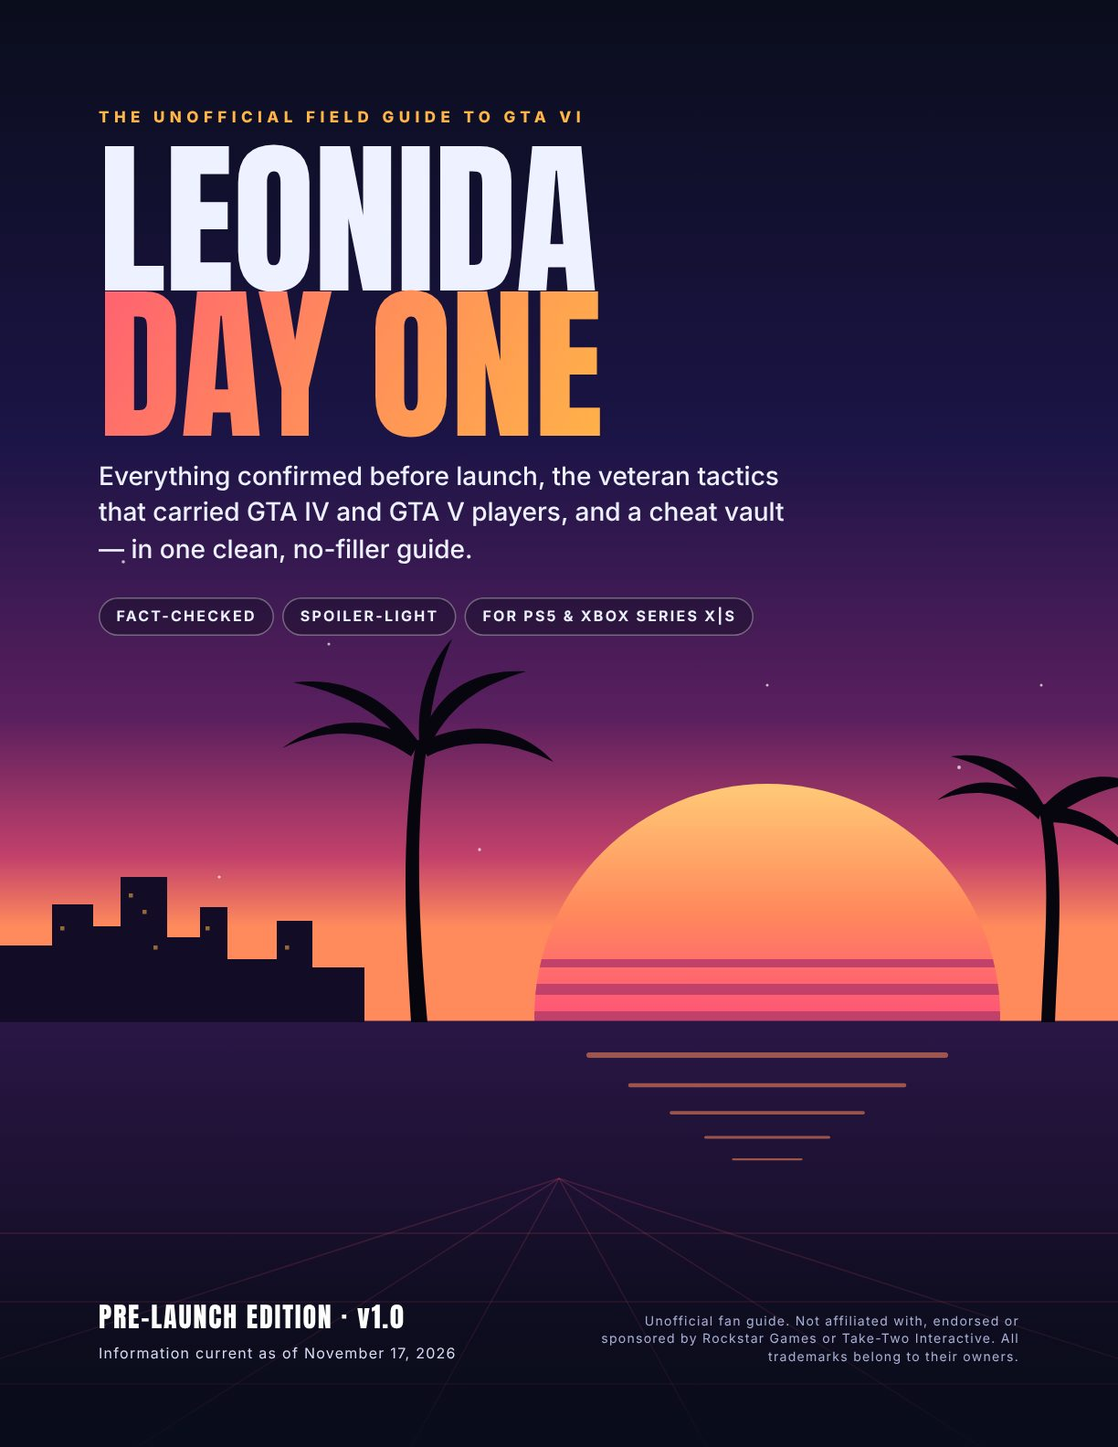
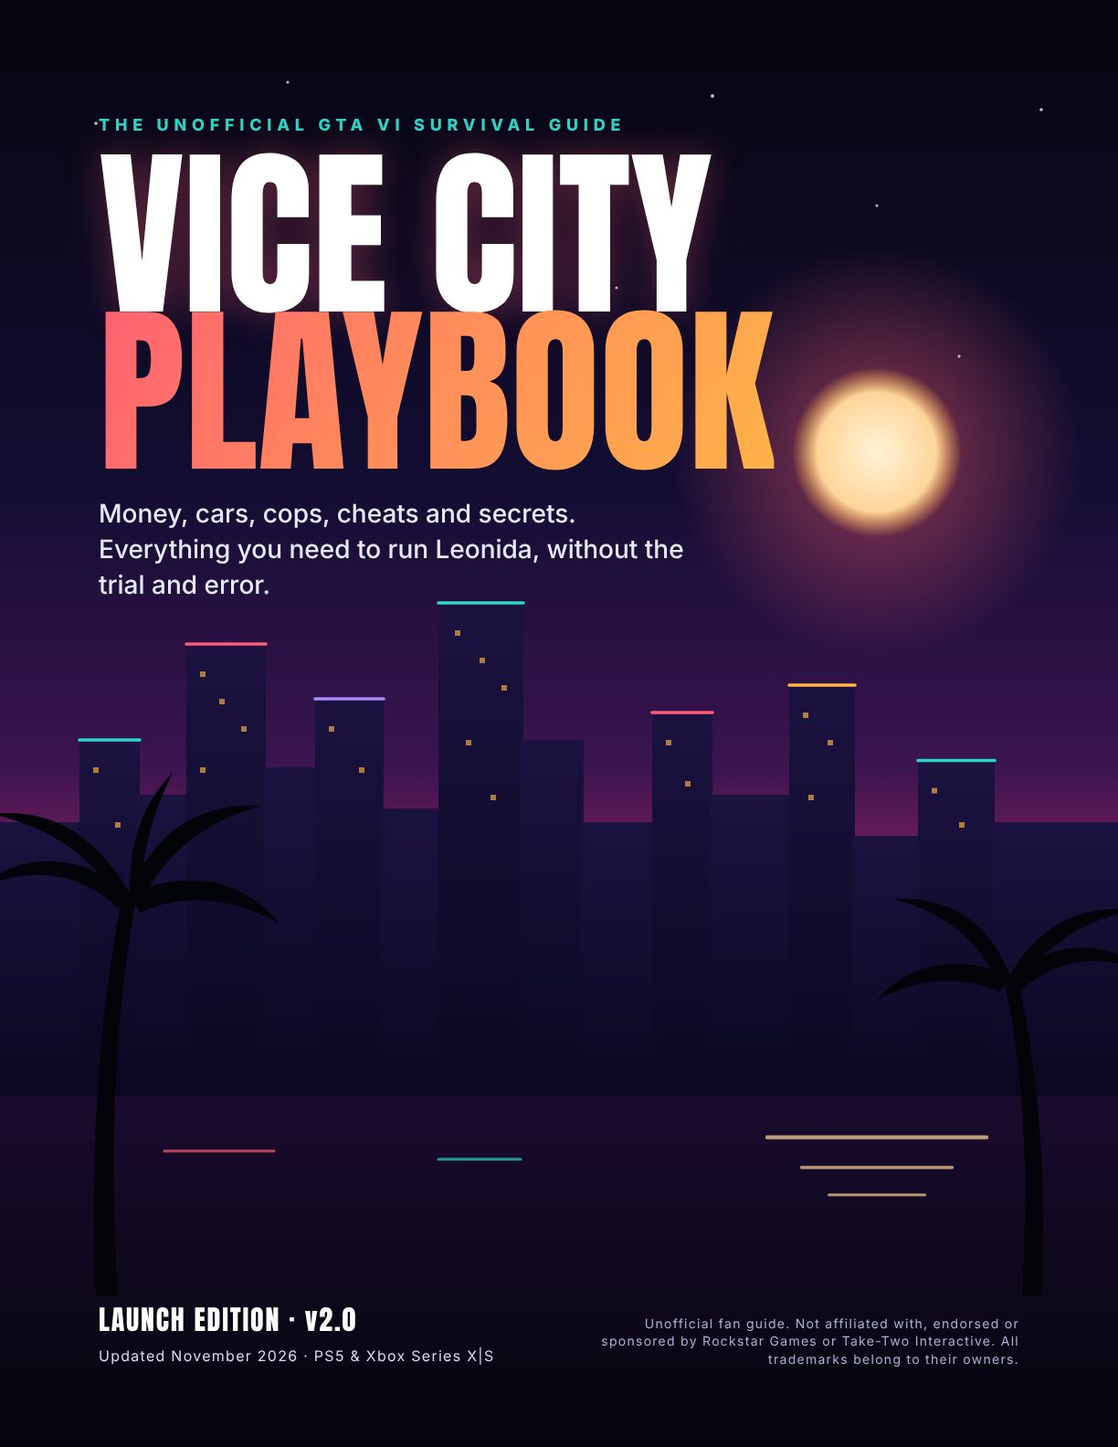
Wersja 2: Vice City Playbook (po premierze), nowa okładka i strona
PDF i źródło poradnika nadal poza repo (repo publiczne).

Claude-Session: https://claude.ai/code/session_01N4FyqEDLHZdtmckfSThfyW

diff --git a/gta6-guide/site/index.html b/gta6-guide/site/index.html
@@ -3,10 +3,10 @@
 <head>
 <meta charset="utf-8">
 <meta name="viewport" content="width=device-width, initial-scale=1">
-<title>Leonida: Day One — The Unofficial GTA VI Field Guide</title>
-<meta name="description" content="A fact-checked, no-filler PDF guide for GTA VI launch day: confirmed features, veteran tactics from GTA IV & V, and a cheat vault. Instant email delivery.">
-<meta property="og:title" content="Leonida: Day One — The Unofficial GTA VI Field Guide">
-<meta property="og:description" content="Walk into Leonida knowing everything. Fact-checked PDF guide, delivered instantly.">
+<title>Vice City Playbook — The Unofficial GTA VI Survival Guide</title>
+<meta name="description" content="The unofficial GTA VI survival guide: money methods, car tricks, how to lose the cops, cheats and secrets. Fact-checked PDF, instant email delivery.">
+<meta property="og:title" content="Vice City Playbook — The Unofficial GTA VI Survival Guide">
+<meta property="og:description" content="Money, cars, cops, cheats and secrets. The GTA VI shortcuts, delivered instantly.">
 <meta property="og:image" content="img/cover.jpg">
 <link rel="preconnect" href="https://fonts.googleapis.com">
 <link rel="preconnect" href="https://fonts.gstatic.com" crossorigin>
@@ -50,6 +50,7 @@ nav .wrap{display:flex;align-items:center;justify-content:space-between;height:6
 .cover-wrap .sticker{position:absolute;top:-14px;left:-14px;background:var(--teal);color:#05211f;font-weight:800;font-size:13px;letter-spacing:.1em;text-transform:uppercase;padding:9px 14px;border-radius:999px;transform:rotate(-6deg)}
 
 /* countdown */
+.facts{display:flex;flex-wrap:wrap;gap:10px;margin-bottom:26px}.facts span{background:var(--night2);border:1px solid var(--line);border-radius:12px;padding:10px 14px;color:var(--soft);font-size:14px}.facts b{font-family:Anton;font-weight:400;font-size:22px;color:var(--ink);margin-right:6px}
 .count{display:flex;gap:10px;margin-bottom:26px}
 .count div{background:var(--night2);border:1px solid var(--line);border-radius:12px;padding:10px 14px;min-width:72px;text-align:center}
 .count b{display:block;font-family:Anton;font-size:30px;line-height:1}
@@ -129,42 +130,37 @@ footer .wrap{display:flex;flex-direction:column;gap:10px}
 <body>
 
 <nav><div class="wrap">
-  <a class="logo" href="#">Leonida<span class="g"> Day One</span></a>
+  <a class="logo" href="#">Vice City<span class="g"> Playbook</span></a>
   <a class="btn sm buy-link" href="#">Get the guide</a>
 </div></nav>
 
 <header class="hero"><div class="wrap">
   <div>
-    <div class="kicker">The unofficial GTA VI field guide</div>
-    <h1 class="display">Walk into Leonida <span class="g">knowing everything.</span></h1>
-    <p class="sub">GTA VI launches November 19. This fact-checked PDF gives you every confirmed feature, the veteran tactics that carried GTA IV &amp; V players, and a verified cheat vault, with zero filler and zero fake leaks.</p>
-    <div class="count" id="count" aria-label="Countdown to GTA VI launch">
-      <div><b id="cd-d">--</b><small>Days</small></div>
-      <div><b id="cd-h">--</b><small>Hours</small></div>
-      <div><b id="cd-m">--</b><small>Min</small></div>
-      <div><b id="cd-s">--</b><small>Sec</small></div>
-    </div>
+    <div class="kicker">The unofficial GTA VI survival guide</div>
+    <h1 class="display">Run Leonida <span class="g">like a pro.</span></h1>
+    <p class="sub">GTA VI is huge and doesn't explain much. This fact-checked playbook gives you the shortcuts: the best ways to make money, keep your cars, lose the cops, unlock cheats and find secrets.</p>
+    <div class="facts"><span><b>11</b> chapters</span><span><b>6</b> ways to lose the cops</span><span><b>6</b> money methods</span></div>
     <a class="btn buy-link" href="#">Get instant access <span class="price">· <span class="price-val">$14.99</span></span></a>
-    <div class="trust"><span>Instant PDF to your email</span><span>19 pages</span><span>Every claim sourced</span></div>
+    <div class="trust"><span>Instant PDF to your email</span><span>14 pages</span><span>Every claim sourced</span></div>
   </div>
   <div class="cover-wrap">
-    <img src="img/cover.jpg" alt="Cover of Leonida: Day One, the unofficial GTA VI field guide" width="1224" height="1584">
+    <img src="img/cover.jpg" alt="Cover of Vice City Playbook, the unofficial GTA VI survival guide" width="1224" height="1584">
   </div>
 </div></header>
 
 <section class="alt"><div class="wrap">
   <div class="kicker">What's inside</div>
-  <h2 class="display">13 chapters. <span class="g">No fluff.</span></h2>
-  <p class="lead">Everything a new player needs on launch night, in a format you can read in one sitting and keep open on your phone while you play.</p>
+  <h2 class="display">11 chapters. <span class="g">No fluff.</span></h2>
+  <p class="lead">Everything you need in your first days in Leonida, in a format you can read in one sitting and keep open on your phone while you play.</p>
   <div class="grid">
-    <div class="card"><div class="n g">01</div><h3>Launch briefing</h3><p>Dates, platforms and what's actually confirmed, on one page.</p></div>
-    <div class="card"><div class="n g">02</div><h3>Map &amp; crew</h3><p>Leonida's six regions and the cast you need to know, without spoilers.</p></div>
-    <div class="card"><div class="n g">03</div><h3>Lose the heat</h3><p>How GTA VI's police see you, and the outfit trick that helps you slip away.</p></div>
-    <div class="card"><div class="n g">04</div><h3>Phone as a weapon</h3><p>The car scanner and every app shown so far. Scan before you steal.</p></div>
-    <div class="card"><div class="n g">05</div><h3>Body &amp; style</h3><p>Gym 2-for-1, the food health buff and grooming at safehouses.</p></div>
-    <div class="card"><div class="n g">06</div><h3>First 10 hours</h3><p>A tick-box launch plan so you don't waste your first night.</p></div>
-    <div class="card"><div class="n g">07</div><h3>Veteran playbook</h3><p>Money, heists, chases and stealth: tactics refined over 15+ years of GTA.</p></div>
-    <div class="card"><div class="n g">08</div><h3>Cheat vault</h3><p>Every verified GTA V &amp; IV cheat, plus the truth about GTA VI cheats.</p></div>
+    <div class="card"><div class="n g">01</div><h3>First hours</h3><p>A tick-box plan that skips the mistakes new players make.</p></div>
+    <div class="card"><div class="n g">02</div><h3>Money</h3><p>Six ways to get rich, from untracked cars to bank vaults.</p></div>
+    <div class="card"><div class="n g">03</div><h3>Cars</h3><p>Scan, steal, store, repair cheap. Never lose a ride to a tracker.</p></div>
+    <div class="card"><div class="n g">04</div><h3>The heat</h3><p>How the six-star police system finds you, icon by icon.</p></div>
+    <div class="card"><div class="n g">05</div><h3>Losing the cops</h3><p>Six escapes that work, plus the perfect getaway routine.</p></div>
+    <div class="card"><div class="n g">06</div><h3>Teamwork</h3><p>Focus Mode and two-character robberies that make jobs easy.</p></div>
+    <div class="card"><div class="n g">07</div><h3>Secrets</h3><p>The first big finds, from the tower egg to the swamp effigies.</p></div>
+    <div class="card"><div class="n g">08</div><h3>Cheats</h3><p>How GTA VI cheats unlock, how to enter them, and the catch.</p></div>
   </div>
 </div></section>
 
@@ -172,20 +168,20 @@ footer .wrap{display:flex;flex-direction:column;gap:10px}
   <div class="kicker">Look inside</div>
   <h2 class="display">Designed to be <span class="g">read, not skimmed.</span></h2>
   <div class="previews">
-    <figure><img src="img/map.jpg" alt="Map of Leonida page preview" loading="lazy" width="1224" height="1584"><figcaption>Welcome to Leonida</figcaption></figure>
-    <figure><img src="img/heat.jpg" alt="Focus mode and police page preview" loading="lazy" width="1224" height="1584"><figcaption>Focus mode &amp; the heat</figcaption></figure>
+    <figure><img src="img/money.jpg" alt="Money methods page preview" loading="lazy" width="1224" height="1584"><figcaption>Make money</figcaption></figure>
+    <figure><img src="img/heat.jpg" alt="Focus mode and police page preview" loading="lazy" width="1224" height="1584"><figcaption>Losing the cops</figcaption></figure>
   </div>
 </div></section>
 
 <section class="alt"><div class="wrap">
   <div class="kicker">Why players grab it</div>
   <h2 class="display">Skip the hype. <span class="g">Play smarter.</span></h2>
-  <p class="lead">The internet is full of fake GTA VI "leaks." This guide keeps only what's real and turns it into a plan you can use on launch night.</p>
+  <p class="lead">The internet is full of fake GTA VI "leaks." This playbook keeps only what's been checked and turns it into a plan you can use tonight.</p>
   <div class="badges">
     <div class="card"><h3>Saves you hours</h3><p>Everything from trailers, previews and interviews, in one place.</p></div>
     <div class="card"><h3>No fake leaks</h3><p>Every GTA VI detail is checked against real sources.</p></div>
-    <div class="card"><h3>Built for day one</h3><p>A step-by-step plan for your first 10 hours in Leonida.</p></div>
-    <div class="card"><h3>Proven tricks</h3><p>Tactics and cheats that worked across GTA IV and GTA V.</p></div>
+    <div class="card"><h3>Built for new players</h3><p>A step-by-step plan for your first hours in Leonida.</p></div>
+    <div class="card"><h3>Real tricks</h3><p>Money methods, escapes and cheats that work in GTA VI.</p></div>
   </div>
 </div></section>
 
@@ -201,16 +197,16 @@ footer .wrap{display:flex;flex-direction:column;gap:10px}
 
 <section class="buy" id="buy"><div class="wrap">
   <div class="box">
-    <div class="kicker">Launch-week price</div>
+    <div class="kicker">Launch price</div>
     <div class="big g price-val">$14.99</div>
     <p style="color:var(--muted)">One-time payment · Instant PDF download</p>
     <ul>
-      <li>19-page fact-checked PDF guide</li>
-      <li>13 chapters + printable quick-reference card</li>
-      <li>Verified GTA V &amp; GTA IV cheat vault</li>
+      <li>14-page fact-checked PDF playbook</li>
+      <li>11 chapters + quick-reference page</li>
+      <li>Money, cars, cops, secrets &amp; cheats</li>
       <li>Full source list for every claim</li>
     </ul>
-    <a class="btn buy-link" href="#">Get Leonida: Day One</a>
+    <a class="btn buy-link" href="#">Get Vice City Playbook</a>
   </div>
 </div></section>
 
@@ -218,19 +214,19 @@ footer .wrap{display:flex;flex-direction:column;gap:10px}
   <div class="kicker">FAQ</div>
   <h2 class="display">Questions</h2>
   <div class="faq">
-    <details><summary>Is this an official Rockstar guide?</summary><p>No. Leonida: Day One is an independent, unofficial fan guide. It isn't affiliated with or endorsed by Rockstar Games or Take-Two Interactive.</p></details>
+    <details><summary>Is this an official Rockstar guide?</summary><p>No. Vice City Playbook is an independent, unofficial fan guide. It isn't affiliated with or endorsed by Rockstar Games or Take-Two Interactive.</p></details>
     <details><summary>Does it contain leaks or spoilers?</summary><p>No leaks, ever. Everything comes from official Rockstar material, press previews with Rockstar developers, or proven series experience. Story spoilers are kept to a minimum.</p></details>
-    <details><summary>The game isn't out yet. What's actually in it?</summary><p>This is the pre-launch edition: everything confirmed about GTA VI so far, a step-by-step plan for your first 10 hours, veteran tactics from GTA IV &amp; V, and a verified cheat vault.</p></details>
+    <details><summary>What's actually in it?</summary><p>A first-hours checklist, six money methods, car and police tricks, Focus Mode and teamwork tips, the first big secrets, and how GTA VI cheats work. Every fact is checked against major gaming outlets.</p></details>
     <details><summary>How do I get the guide after I pay?</summary><p>It's delivered automatically. After checkout you'll get an email with your download link within a minute or so. Check your spam folder if you don't see it.</p></details>
     <details><summary>What format is it?</summary><p>A high-quality PDF that works on any phone, tablet or computer, and prints on standard US Letter paper.</p></details>
-    <details><summary>Which platforms does it cover?</summary><p>GTA VI launches on PlayStation 5 and Xbox Series X|S. The GTA V cheat phone numbers in the vault work on every platform.</p></details>
+    <details><summary>Which platforms does it cover?</summary><p>GTA VI is on PlayStation 5 and Xbox Series X|S. The playbook covers both, including the controls for cheats on each console.</p></details>
   </div>
 </div></section>
 
 <footer><div class="wrap">
-  <div><strong style="color:var(--ink)">Leonida: Day One</strong> · Questions? <a href="mailto:support@example.com" id="support-mail">support@example.com</a></div>
-  <div>Leonida: Day One is an unofficial fan-made guide and is not affiliated with, endorsed, sponsored or approved by Rockstar Games, Inc. or Take-Two Interactive Software, Inc. Grand Theft Auto, GTA and related names are trademarks of their respective owners and are used only to identify the game this guide covers. All artwork is original.</div>
-  <div>© 2026 Leonida: Day One</div>
+  <div><strong style="color:var(--ink)">Vice City Playbook</strong> · Questions? <a href="mailto:support@example.com" id="support-mail">support@example.com</a></div>
+  <div>Vice City Playbook is an unofficial fan-made guide and is not affiliated with, endorsed, sponsored or approved by Rockstar Games, Inc. or Take-Two Interactive Software, Inc. Grand Theft Auto, GTA and related names are trademarks of their respective owners and are used only to identify the game this guide covers. All artwork is original.</div>
+  <div>© 2026 Vice City Playbook</div>
 </div></footer>
 
 <div class="mobile-buy"><a class="btn buy-link" href="#">Get the guide · <span class="price-val">$14.99</span></a></div>
@@ -247,20 +243,6 @@ document.querySelectorAll('.buy-link').forEach(a => a.href = CONFIG.checkoutUrl)
 document.querySelectorAll('.price-val').forEach(e => e.textContent = CONFIG.price);
 const m = document.getElementById('support-mail'); m.href = 'mailto:' + CONFIG.supportEmail; m.textContent = CONFIG.supportEmail;
 
-// Countdown to launch: Nov 19, 2026, midnight US Eastern (05:00 UTC)
-const launch = Date.UTC(2026, 10, 19, 5, 0, 0);
-const box = document.getElementById('count');
-function tick(){
-  const d = launch - Date.now();
-  if (d <= 0){ box.innerHTML = '<div style="flex:1"><b class="g">OUT NOW</b><small>GTA VI is here</small></div>'; return; }
-  const pad = n => String(n).padStart(2,'0');
-  document.getElementById('cd-d').textContent = Math.floor(d/864e5);
-  document.getElementById('cd-h').textContent = pad(Math.floor(d/36e5)%24);
-  document.getElementById('cd-m').textContent = pad(Math.floor(d/6e4)%60);
-  document.getElementById('cd-s').textContent = pad(Math.floor(d/1e3)%60);
-  setTimeout(tick, 1000);
-}
-tick();
 
 // Show the sticky mobile buy bar only once the hero button has scrolled away
 const heroBtn = document.querySelector('.hero .btn'), bar = document.querySelector('.mobile-buy'), buyBox = document.getElementById('buy');

diff --git a/gta6-guide/tools/build.js b/gta6-guide/tools/build.js
@@ -6,7 +6,7 @@ const fs = require('fs');
 
 const root = path.resolve(__dirname, '..');
 const src = 'file://' + path.join(root, 'guide', 'guide.html');
-const pdfOut = path.join(root, 'dist', 'Leonida-Day-One-GTA-VI-Guide.pdf');
+const pdfOut = path.join(root, 'dist', 'Vice-City-Playbook-GTA-VI-Guide.pdf');
 const prevDir = path.join(root, 'site', 'img');
 
 (async () => {
@@ -36,7 +36,7 @@ const prevDir = path.join(root, 'site', 'img');
   console.log('PDF ->', pdfOut);
 
   // Preview images of selected pages for the landing page.
-  const pick = { cover: 1, map: 4, heat: 8 };
+  const pick = { cover: 1, money: 5, heat: 8 };
   const scale = process.argv.includes('--all') ? null : pick;
   const hi = await browser.newPage({ viewport: { width: 816, height: 1056 }, deviceScaleFactor: 1.5 });
   await hi.goto(src, { waitUntil: 'networkidle' });

diff --git a/gta6-guide/INSTRUKCJA.md b/gta6-guide/INSTRUKCJA.md
@@ -1,7 +1,7 @@
-# Leonida: Day One — instrukcja uruchomienia sprzedaży
+# Vice City Playbook — instrukcja uruchomienia sprzedaży
 
 Produkt: PDF-poradnik do GTA VI (po angielsku, rynek USA) + strona sprzedażowa.
-Klient płaci → **automatycznie dostaje maila z linkiem do PDF**. Nie musisz nic robić ręcznie.
+Klient płaci → **automatycznie dostaje maila z PDF-em**. Nic nie wysyłasz ręcznie.
 
 ---
 
@@ -9,80 +9,76 @@ Klient płaci → **automatycznie dostaje maila z linkiem do PDF**. Nie musisz n
 
 | Plik | Co to jest |
 |---|---|
-| `Leonida-Day-One-GTA-VI-Guide.pdf` | Gotowy poradnik, 19 stron (wysłany Ci jako plik, **NIE ma go w repo**) |
-| `site/index.html` + `site/img/` | Strona sprzedażowa (landing page) |
-| `guide/guide.html` | Źródło PDF (też wysłane jako plik, **nie w repo**) |
+| `Vice-City-Playbook-GTA-VI-Guide.pdf` | Gotowy poradnik, 14 stron (wysłany Ci jako plik, **NIE ma go w repo**) |
+| `site/index.html` + `site/img/` | Strona sprzedażowa |
+| `guide/guide.html` | Źródło PDF (nie w repo) |
 | `tools/build.js` | Skrypt, który robi PDF ze źródła |
 
-> ⚠ Repo `Petenzo/Petenzo` jest **publiczne**. Nigdy nie wrzucaj tam PDF-a ani `guide.html`, bo każdy pobierze go za darmo.
-> PDF **nie może** też leżeć w folderze `site/` (strona jest publiczna).
+> ⚠ Repo `Petenzo/Petenzo` jest **publiczne**. Nigdy nie wrzucaj tam PDF-a ani `guide.html`.
+> PDF **nie może** też leżeć w folderze `site/`, bo strona jest publiczna.
 
 ---
 
-## Krok 1: Gumroad (płatności i automatyczna wysyłka PDF), ok. 10 minut
+## Krok 1: Shopify (płatności i automatyczna wysyłka PDF)
 
-1. Załóż konto na **gumroad.com**.
-2. **Settings → Payments**: podepnij wypłaty (PayPal albo konto bankowe).
-3. **Products → New product → Digital product**
-   - Name: `Leonida: Day One — The Unofficial GTA VI Field Guide`
-   - Price: **$14.99** (ok. 55 zł)
-   - Upload: wgraj `Leonida-Day-One-GTA-VI-Guide.pdf`
-   - Cover: wgraj `site/img/cover.jpg`
-   - Description: wklej tekst z sekcji „Opis produktu” poniżej
-4. **Publish**, potem skopiuj link do produktu (np. `https://twojanazwa.gumroad.com/l/leonida`).
+1. Na swoim koncie Shopify załóż **nowy sklep** tylko pod poradnik (nie w Petenzo). Plan **Basic**.
+2. **Apps** → wyszukaj **Digital Downloads** → wybierz tę od **Shopify**, cena **Free** → Install.
+3. **Products → Add product**
+   - Title: `Vice City Playbook — The Unofficial GTA VI Survival Guide`
+   - Price: **$14.99**
+   - Odznacz „This is a physical product” (bez wysyłki)
+   - Zdjęcie: `site/img/cover.jpg`
+   - Opis: wklej tekst z sekcji „Opis produktu” poniżej
+4. W aplikacji Digital Downloads przypisz plik `Vice-City-Playbook-GTA-VI-Guide.pdf` do produktu.
+5. **Settings → Store details**: wpisz osobnego Gmaila do kontaktu z klientami.
+6. Zrób **testowy zakup** z kodem rabatowym 100% i sprawdź, czy PDF przychodzi na maila.
 
-Gumroad sam wysyła klientowi maila z PDF-em zaraz po zapłacie.
-Prowizja Gumroada to ok. 10% + 0,50 $ od sprzedaży (sprawdź aktualny cennik na ich stronie).
-Alternatywa: **Lemon Squeezy** działa tak samo.
+Możesz też podłączyć nowy sklep do mnie, a dodam produkt i wysyłkę za Ciebie.
 
-## Krok 2: Podepnij link na stronie, 1 minuta
+## Krok 2: Podepnij link na stronie
 
-Otwórz `site/index.html`, na samym dole znajdź:
+W `site/index.html`, na samym dole:
 
 ```js
 const CONFIG = {
-  checkoutUrl: "#buy",               // ← TU wklej link z Gumroada
-  price: "$14.99",                   // ← cena (zmienia się wszędzie na stronie)
-  supportEmail: "support@example.com" // ← Twój mail do kontaktu
+  checkoutUrl: "#buy",               // ← link do produktu albo koszyka w Shopify
+  price: "$14.99",
+  supportEmail: "support@example.com" // ← Twój Gmail do kontaktu
 };
 ```
 
-## Krok 3: Wrzuć stronę do internetu, 2 minuty, za darmo
+## Krok 3: Wrzuć stronę do internetu (za darmo)
 
-- Wejdź na **app.netlify.com/drop** i przeciągnij folder `site`. Dostajesz link od razu.
-- Możesz też poprosić mnie, a zrobię to przez Netlify.
-- Własna domena (np. `leonidadayone.com`) kosztuje ok. 10–15 $ rocznie i podpinasz ją w Netlify.
-
----
-
-## Ważne: przeczytaj
-
-1. **Premiera GTA VI to 19 listopada 2026, czyli za 2 dni.** Najwięcej sprzedasz w tym tygodniu, więc odpal to dziś.
-2. **Prawo/marki:** poradnik i strona mają dopisek „unofficial, not affiliated with Rockstar”. W reklamach **nie używaj** logo GTA VI, screenów z gry ani grafik Rockstara. Używaj tylko naszych grafik (okładka i podglądy stron).
-3. **Fakty:** wszystko w poradniku jest sprawdzone i oznaczone (CONFIRMED / PREVIEW / VETERAN / UNCONFIRMED). Gra jeszcze nie wyszła, więc to **wydanie przedpremierowe**. Po premierze warto zrobić v2 z prawdziwymi trikami z gry. Gumroad pozwala podmienić plik i kupujący dostaną nową wersję.
-4. **Podatki w Polsce:** przychód ze sprzedaży trzeba rozliczyć (np. działalność nierejestrowana albo firma). Zapytaj księgowego.
+- **app.netlify.com/drop** → przeciągnij folder `site`. Dostajesz link do bio.
+- Albo poproś mnie, a wrzucę ją za Ciebie.
+- Domena nie jest potrzebna. Możesz ją dokupić później.
 
 ---
 
-## Opis produktu (wklej do Gumroada)
+## Ważne
 
-> **GTA VI launches November 19. Walk into Leonida knowing everything.**
+1. **Marki:** poradnik i strona mają dopisek „unofficial, not affiliated with Rockstar”. W reklamach **nie używaj** logo GTA VI ani screenów z gry. Używaj naszych grafik.
+2. **Aktualizacje:** gracze ciągle odkrywają nowe kody i sekrety. Co kilka dni możemy dorzucać nowe rzeczy i podmieniać PDF w Digital Downloads.
+3. **Podatki w Polsce:** przychód trzeba rozliczyć. Zapytaj księgowego.
+
+---
+
+## Opis produktu (wklej do Shopify)
+
+> **GTA VI is huge and doesn't explain much. Run Leonida like a pro.**
 >
-> Leonida: Day One is a fact-checked, no-filler PDF guide for launch night:
+> Vice City Playbook is a fact-checked, no-filler PDF guide:
 >
-> - Every confirmed GTA VI feature, with sources
-> - Leonida's six regions and the main cast (spoiler-light)
-> - How the new police system sees you, and the outfit trick to lose the heat
-> - The phone car scanner, ride-share fast travel and every app shown so far
-> - Gym, food and grooming systems explained
-> - A tick-box plan for your first 10 hours
-> - The Veteran Playbook: money, heists, chases and stealth from GTA IV & V
-> - A verified cheat vault for GTA V & GTA IV
-> - A printable quick-reference card
+> - A first-hours checklist that skips the mistakes new players make
+> - Six ways to make money, from untracked cars to bank vaults
+> - How to scan, steal, store and cheaply repair cars
+> - How the six-star police system finds you, and six ways to lose the cops
+> - Focus Mode and two-character robbery tactics
+> - The first big secrets players have found
+> - How GTA VI cheats unlock and how to enter them
+> - A one-page quick reference
 >
-> Every claim is labeled Confirmed, Preview, Veteran or Unconfirmed, so you never fall for fake leaks.
->
-> 19 pages · PDF · Instant download
+> 14 pages · PDF · Instant download
 >
 > *Unofficial fan guide. Not affiliated with Rockstar Games or Take-Two Interactive.*
 
@@ -94,4 +90,4 @@ const CONFIG = {
 cd gta6-guide/tools && npm install && cd .. && node tools/build.js
 ```
 
-PDF pojawi się w `dist/`, a podglądy dla strony w `site/img/`.
+PDF pojawi się w `dist/`, podglądy dla strony w `site/img/`.
